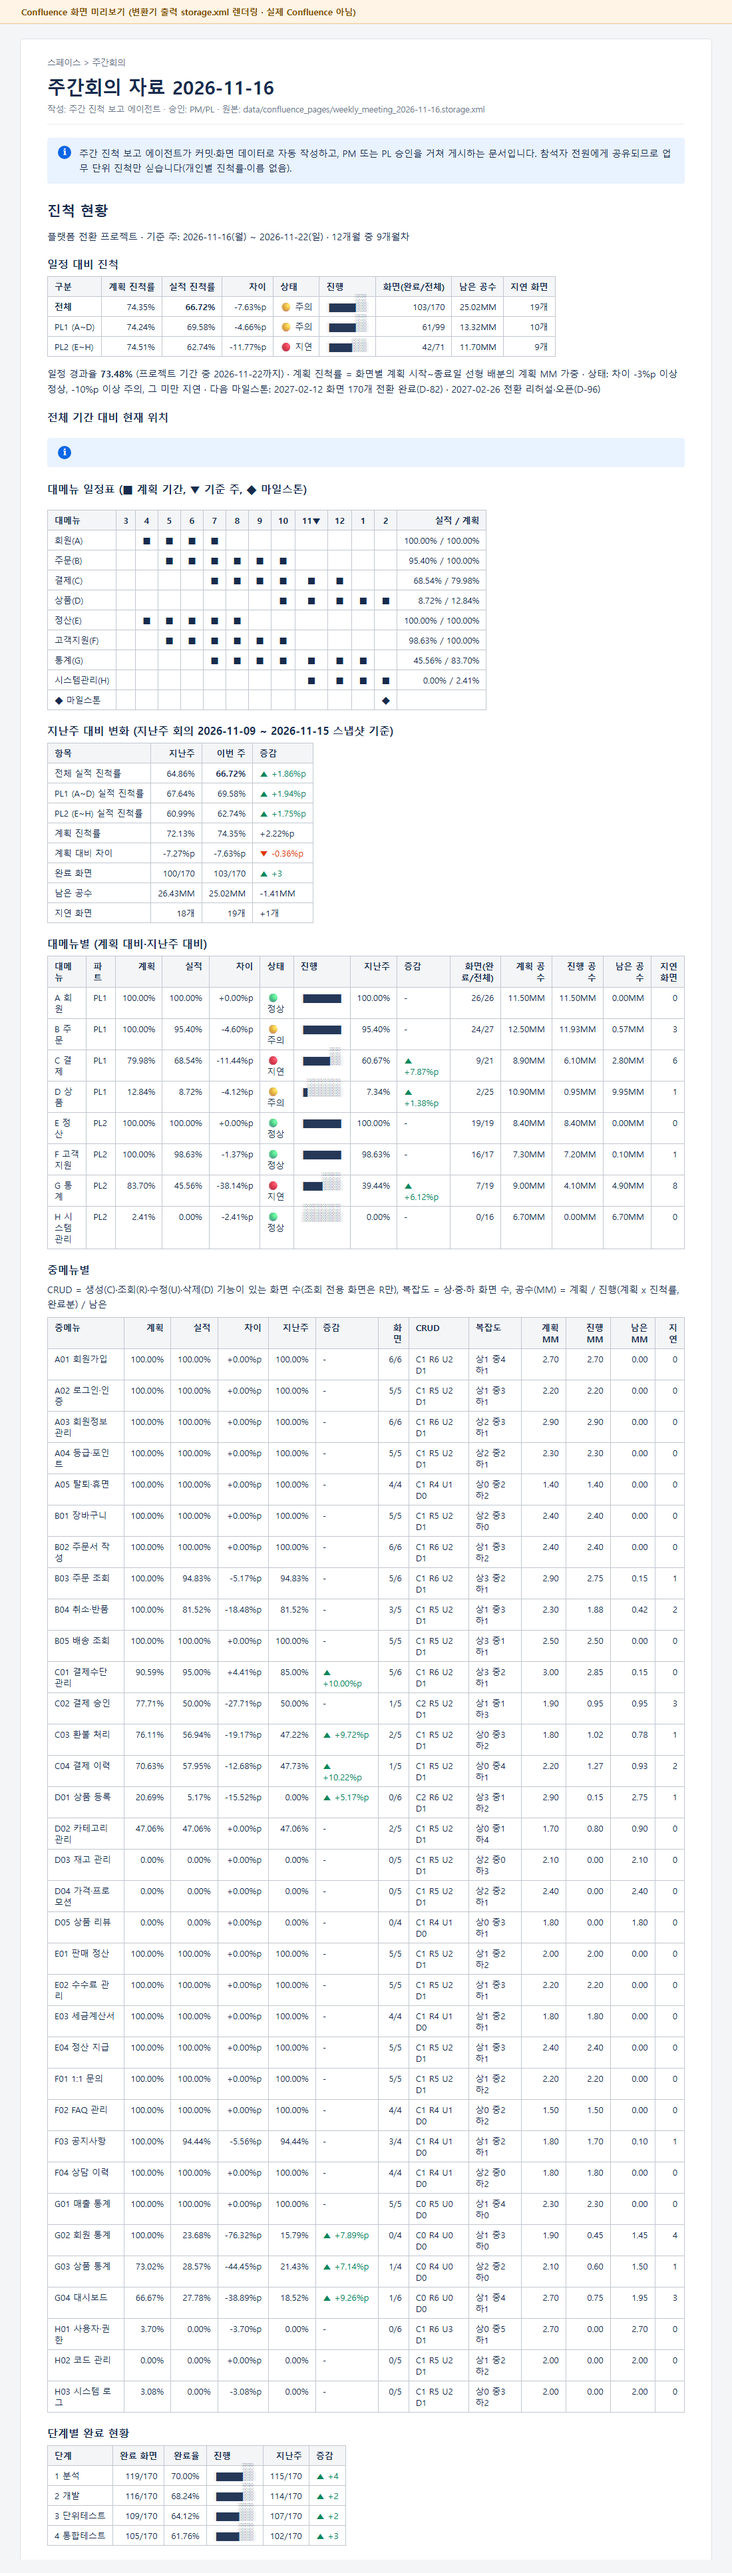
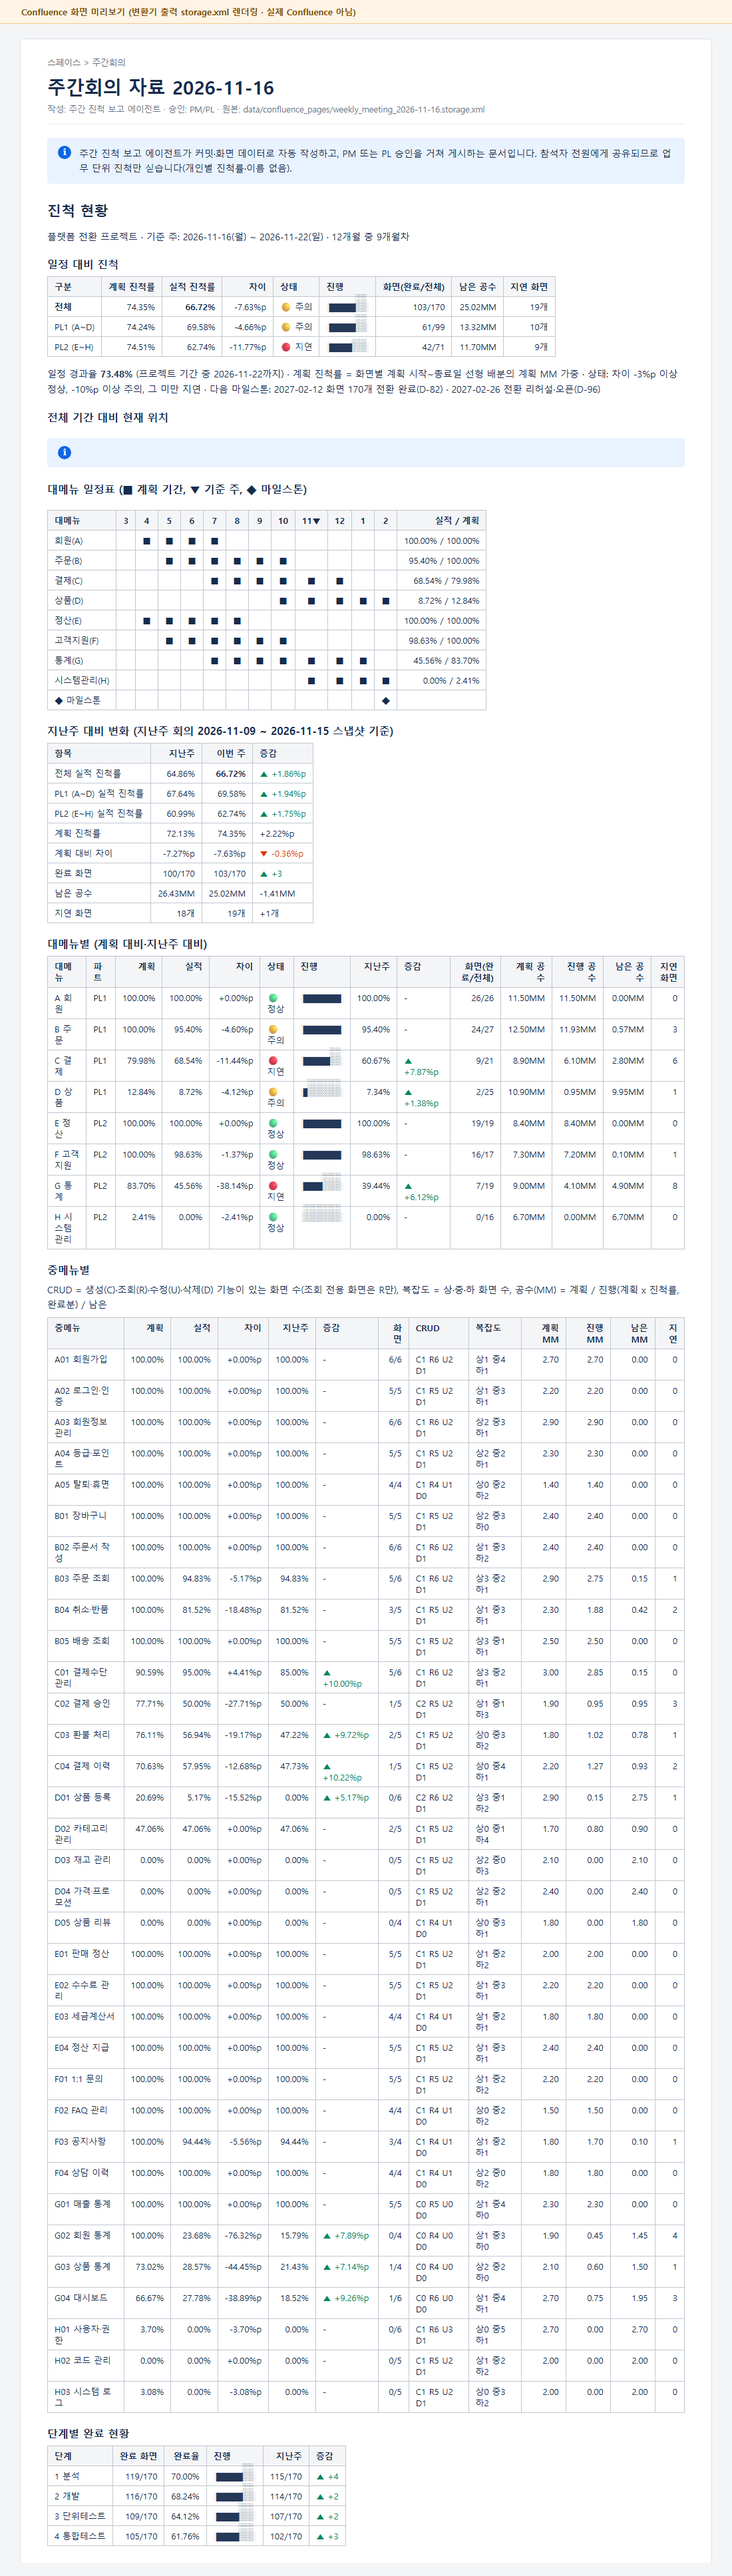
아키텍처 그림 갱신, 소스 정리, 샘플 회의 자료에 게시 꼬리말 반영
- architecture.svg를 현재 구조(로그인 세션·가드레일 뒤 라우팅·MCP fake/real·이력 검색·조각 임베딩)로 다시 그림
- 미사용 import 제거, 가드레일·평가 코드의 낡은 설명 정리
- 게시 꼬리말을 meeting.with_footer로 모으고 저장소 샘플 페이지도 실제 게시본과 같게 재생성
- Confluence 변환기: 구분선(---)을 <hr />로 변환 (게시물에 '---'가 글자로 나가던 문제)

diff --git a/src/agent.py b/src/agent.py
@@ -13,8 +13,7 @@ import re
 
 from src import config, guardrails, mcp_client, meeting, middleware, retriever, supervisor, tools
 
-PUBLISH_FOOTER = ("※ 이 문서는 참석자 공용 자료로, 개인 이름·연락처·개인별 진척률을 싣지 않습니다. "
-                  "이메일·전화번호는 게시 전 마스킹됩니다.")
+PUBLISH_FOOTER = meeting.PUBLISH_FOOTER
 NO_ANSWER = "문서에서 근거를 찾지 못해 알 수 없습니다. 확인 가능한 담당자(PM·PL)나 팀 채널에 문의해 주세요."
 
 _flow: meeting.MeetingFlow | None = None
@@ -179,7 +178,7 @@ def answer_progress(question: str, role: str, user_id: str, thread_id: str | Non
 # ----------------------------------------------------------------------------- 회의 자료 (Plan-Execute + HITL)
 def _publish(title: str, body: str) -> str:
     """Confluence MCP 게시. PII 마스킹 후 한 번만 시도(타임아웃 15초, 중복 게시 방지를 위해 재시도 없음)."""
-    body += "\n\n---\n" + PUBLISH_FOOTER
+    body = meeting.with_footer(body)
     title, body = middleware.mask_pii(title), middleware.mask_pii(body)
     page = middleware.call_with_retry(mcp_client.call_tool, "create_page",
                                       {"title": title, "body": body, "page_id": meeting.meeting_page_id()}, retries=0)

diff --git a/src/meeting.py b/src/meeting.py
@@ -20,9 +20,16 @@ from src import tools
 
 NOTICE = ("> 주간 진척 보고 에이전트가 커밋·화면 데이터로 자동 작성하고, PM 또는 PL 승인을 거쳐 게시하는 문서입니다. "
           "참석자 전원에게 공유되므로 업무 단위 진척만 싣습니다(개인별 진척률·이름 없음).")
+PUBLISH_FOOTER = ("※ 이 문서는 참석자 공용 자료로, 개인 이름·연락처·개인별 진척률을 싣지 않습니다. "
+                  "이메일·전화번호는 게시 전 마스킹됩니다.")
 DRAFT_MAX_ITEMS = 5    # LLM 초안 섹션별 항목 수 상한(출력 토큰 한도 안에서 구조화 출력이 잘리지 않게)
 LONG_ISSUE_WEEKS = 8  # 이 주수 이상 지속된 미해결 이슈는 기본 초안의 블로커로 올린다
 SNAPSHOT_NS = ("meeting_snapshot",)  # 장기 메모리 네임스페이스 (키: 주 시작일)
+
+
+def with_footer(body: str) -> str:
+    """게시 본문 끝에 공용 자료·마스킹 안내 꼬리말을 붙인다 (게시 경로와 저장소 샘플 페이지 공통)."""
+    return f"{body}\n\n---\n{PUBLISH_FOOTER}"
 
 
 def meeting_page_id(week: str | None = None) -> str:

diff --git a/src/confluence_convert.py b/src/confluence_convert.py
@@ -1,7 +1,7 @@
 """Markdown → Confluence 저장 형식(storage format, XHTML) 변환기.
 
 MCP 서버의 create_page가 게시 직전에 호출한다(에이전트는 Markdown만 넘긴다).
-회의 자료에 쓰는 문법만 지원: 제목, 문단, 인용(→ info 패널), 목록, 체크리스트(→ 작업 목록), 표, **굵게**, `코드`,
+회의 자료에 쓰는 문법만 지원: 제목, 문단, 구분선, 인용(→ info 패널), 목록, 체크리스트(→ 작업 목록), 표, **굵게**, `코드`,
 펜스 코드 블록(```  → code 매크로, 고정폭 타임라인 도식용),
 지난주 대비 증감 표시(``▲ +1.86%p`` → 초록 글자, ``▼ -0.50%p`` → 빨강 글자).
 """
@@ -48,6 +48,9 @@ def md_to_storage(md: str) -> str:
     while i < len(lines):
         line = lines[i].rstrip()
         if not line.strip():
+            i += 1
+        elif re.fullmatch(r"-{3,}|\*{3,}", line.strip()):  # 구분선 (게시 꼬리말 앞)
+            out.append("<hr />")
             i += 1
         elif line.startswith("```"):  # 펜스 코드 블록 → code 매크로 (본문은 CDATA로 그대로)
             i += 1

diff --git a/tests/test_meeting_material.py b/tests/test_meeting_material.py
@@ -223,13 +223,13 @@ def test_previous_week_page_from_snapshot():
 
 
 def test_committed_meeting_pages_are_current():
-    # 저장소에 커밋한 회의 자료 페이지는 결정적 렌더 결과와 같다 (이번 주·지난주)
+    # 저장소에 커밋한 회의 자료 페이지(샘플)는 결정적 렌더 + 게시 꼬리말과 같다 (이번 주·지난주)
     from src import middleware
     from src.confluence_convert import md_to_storage
     root = Path(__file__).resolve().parent.parent / "data" / "confluence_pages"
     prev = tools.previous_snapshot()
     for week, body in (("2026-11-16", meeting.build_meeting_material()), ("2026-11-09", meeting.render_snapshot_page(prev))):
-        body = middleware.mask_pii(body)
+        body = middleware.mask_pii(meeting.with_footer(body))  # 실제 게시본과 같게 꼬리말 포함
         md = (root / f"{meeting.meeting_page_id(week)}.md").read_text(encoding="utf-8")
         assert md == f"# {meeting.meeting_title(week)}\n\n{body}\n"
         assert (root / f"{meeting.meeting_page_id(week)}.storage.xml").read_text(encoding="utf-8") == md_to_storage(body)

diff --git a/src/guardrails.py b/src/guardrails.py
@@ -8,8 +8,8 @@
 5 사람 평가·순위 거절 (업무 단위 현황 안내)
 
 역할: pm(전체) / pl(본인 파트의 대메뉴·소속 개발자) / developer(본인 화면만)
-신원(user_id·role)은 세션(요청 필드)에서만 정한다. 질문 속 '나 PM이야' 같은 자기 소개 문구는 판단에 쓰지 않으며,
-범위 밖 데이터를 요청할 때만 거절한다. 역할과 user_id 등록 정보 불일치는 api.py에서 403으로 막는다.
+신원(user_id·role)은 로그인 세션(api.py, Bearer 토큰)에서만 정한다. 질문 속 '나 PM이야' 같은 자기 소개 문구는 판단에 쓰지 않으며,
+범위 밖 데이터를 요청할 때만 거절한다. 본문에 신원을 보내면 api.py가 422로 막는다.
 """
 from __future__ import annotations
 

diff --git a/evaluation/run_eval.py b/evaluation/run_eval.py
@@ -223,7 +223,7 @@ def rescore_ragas(round_no: int, names: tuple[str, ...] = RAGAS_METRICS) -> dict
         r = rows[case["id"]]
         for run in case["runs"]:
             if any(i not in docs for i in run["context_doc_ids"]):
-                # 생성 문서 제외 이전 실행이 생성 문서(임시 폴더, 삭제됨)를 근거로 쓴 경우: 재구성할 수 없어 기존 점수를 유지하고
+                # 근거 문서가 지금 코퍼스에 없으면(예: 평가 중 생성 문서, 임시 폴더라 삭제됨) 재구성할 수 없어 기존 점수를 유지하고
                 # 없는 지표는 None으로 두어 평균에서 뺀다
                 for k in RAGAS_METRICS:
                     run.setdefault(k, None)

diff --git a/tests/test_confluence_real.py b/tests/test_confluence_real.py
@@ -128,3 +128,9 @@ def test_real_mode_missing_settings_names_only(monkeypatch):
     with pytest.raises(RuntimeError) as e:
         confluence.create_page("t", "b")
     assert "CONFLUENCE_BASE_URL" in str(e.value) and "secret-value" not in str(e.value)
+
+
+def test_converter_renders_rule_before_publish_footer():
+    s = md_to_storage(meeting.with_footer("## 액션아이템\n- [ ] 일"))
+    assert "<hr />" in s and "<p>---</p>" not in s
+    assert s.endswith(f"<p>{meeting.PUBLISH_FOOTER}</p>")

diff --git a/tests/test_guardrails.py b/tests/test_guardrails.py
@@ -229,7 +229,6 @@ def test_pii_masked_in_confluence_page(monkeypatch):
                         lambda *a, **k: "담당 messi.kim@example.com 010-9999-8888")
     tid = ask("이번 주 회의 자료 초안 만들어줘", user="pm01", role="pm")["thread_id"]
     ask("승인", user="pm01", role="pm", thread_id=tid, approval="approve")
-    from pathlib import Path
     pages = list(confluence.confluence_dir().glob("*.md"))
     assert pages
     body = pages[0].read_text(encoding="utf-8")

diff --git a/tests/test_eval_reports.py b/tests/test_eval_reports.py
@@ -2,11 +2,10 @@
 import json
 from pathlib import Path
 
-import pytest
 
 ROOT = Path(__file__).resolve().parent.parent
 EV = ROOT / "evaluation"
-# 1차(사전 고정 baseline)와 2차(최종 재실행) 실제 결과로 성공 기준을 판정한다.
+# 1차(사전 고정 baseline)와 2차(개선 레버 적용) 실제 결과로 성공 기준을 판정한다.
 
 
 def load(n):

diff --git a/tests/test_eval_pipeline.py b/tests/test_eval_pipeline.py
@@ -4,7 +4,6 @@ import json
 from pathlib import Path
 
 import pytest
-from fastapi.testclient import TestClient  # noqa: F401  (run_once가 내부에서 사용)
 from langchain_core.embeddings import FakeEmbeddings
 from langchain_core.language_models.fake_chat_models import GenericFakeChatModel
 from langchain_core.messages import AIMessage

diff --git a/data/confluence_pages/weekly_meeting_2026-11-09.md b/data/confluence_pages/weekly_meeting_2026-11-09.md
@@ -129,3 +129,6 @@
 - [ ] SCR-G02-02 회원 통계 목록 조회: SCR-G02-02-1,SCR-G02-02-2,SCR-G02-02-3,SCR-G02-02-4 완료 (계획 종료 2026-10-22)
 - [ ] SCR-G03-01 상품 통계 메인: SCR-G03-01-4 완료 (계획 종료 2026-10-23)
 - [ ] 미연결 커밋 c0418, c0436: 올바른 화면 ID로 커밋 메시지 정정
+
+---
+※ 이 문서는 참석자 공용 자료로, 개인 이름·연락처·개인별 진척률을 싣지 않습니다. 이메일·전화번호는 게시 전 마스킹됩니다.
